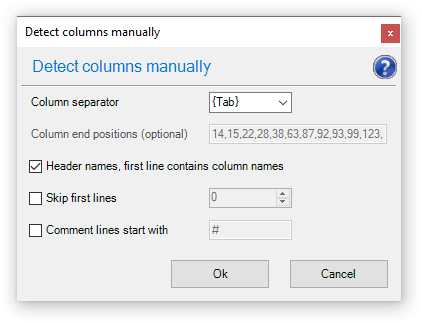
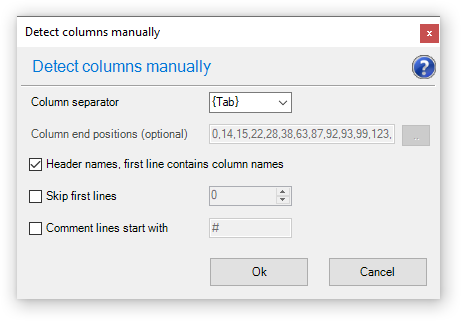
Update screenshots for v4.6.6
Update screenshots for v4.6.6

diff --git a/readme.md b/readme.md
@@ -50,8 +50,8 @@ want to install the plug-in manually:
 
 * Go to the [releases page](https://github.com/BdR76/CSVLint/releases)
 * Find the latest release
-* 32bit version; unzip [CSVLint.dll (32bit)](../../releases/download/0.4.6.5/CSVLint_x86.zip/) to folder `.\Program Files (x86)\Notepad++\plugins\CSVLint\CSVLint.dll`.
-* 64bit version; unzip [CSVLint.dll (64bit)](../../releases/download/0.4.6.5/CSVLint_x64.zip/) to folder `.\Program Files\Notepad++\plugins\CSVLint\CSVLint.dll`.
+* 32bit version; unzip [CSVLint.dll (32bit)](../../releases/download/0.4.6.6/CSVLint_x86.zip/) to folder `.\Program Files (x86)\Notepad++\plugins\CSVLint\CSVLint.dll`.
+* 64bit version; unzip [CSVLint.dll (64bit)](../../releases/download/0.4.6.6/CSVLint_x64.zip/) to folder `.\Program Files\Notepad++\plugins\CSVLint\CSVLint.dll`.
 * restart Notepad++
 
 How to use it
